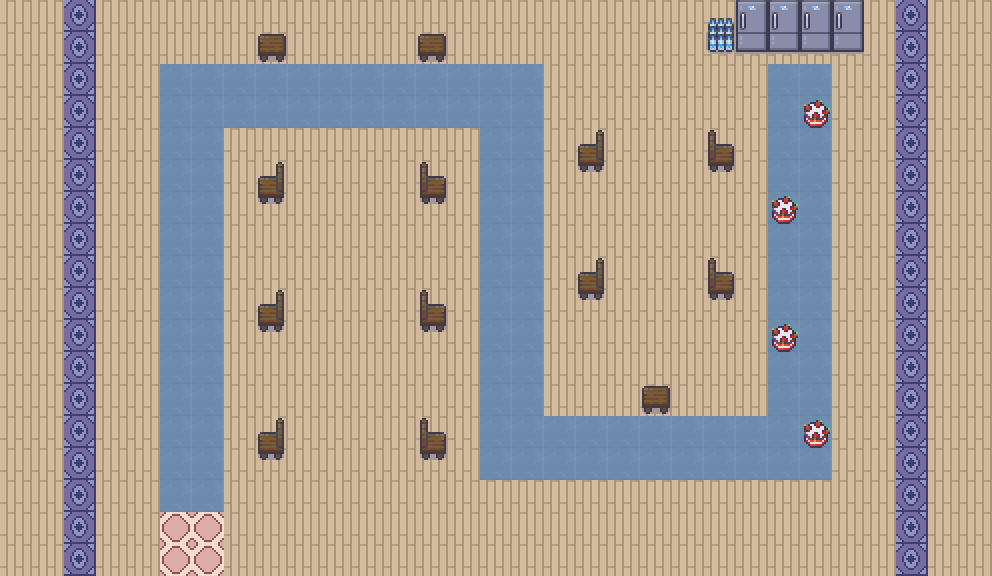
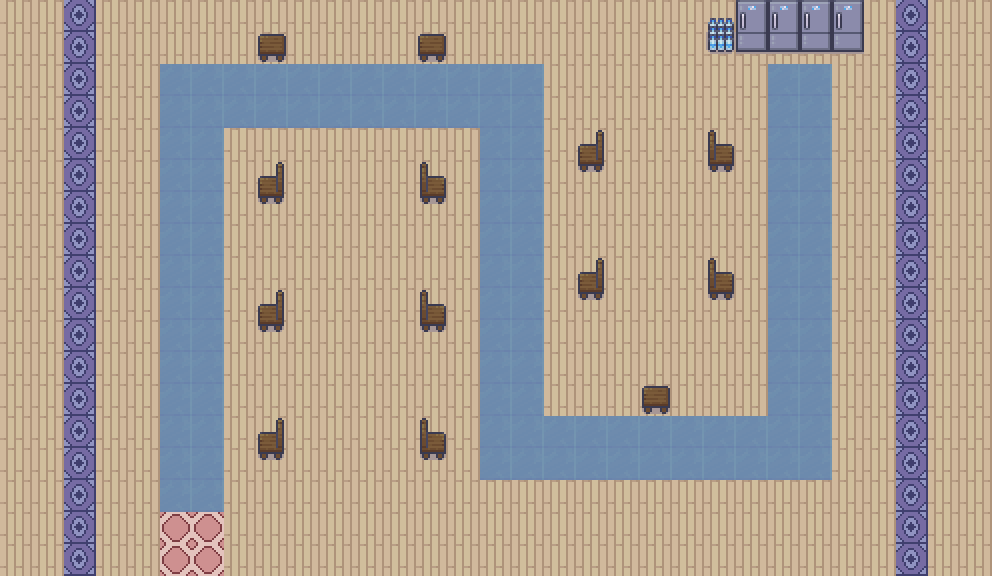
updated map to work in play.js updated map to get rid of placeholder enemy units

diff --git a/src/js/stage/play.js b/src/js/stage/play.js
@@ -15,22 +15,28 @@ class PlayScreen extends Stage {
 
         var panel = new SideMenuContainer(game.viewport.width * 5/6, 0, game.viewport.width / 6, game.viewport.height);
         var gameHud = new GameHUD(0, 0, game.viewport.width * 5 / 6, game.viewport.height);
+
+        var game_map = new me.Sprite(450,350, 
+            {   
+                image: me.loader.getImage("map"), 
+                spritewidth: 64, 
+                spriteheight: 64
+            });
+
+        me.game.world.addChild(game_map);
+
         
         game.world.addChild(panel);
         game.world.addChild(gameHud);
 
         // temp code that serves as a map placeholder
-        game.world.addChild(new BitmapText(game.viewport.width / 2.5, game.viewport.height / 1.8,  {
-            font : "PressStart2P",
-            size : 2.8,
-            textBaseline : "middle",
-            textAlign : "center",
-            text : "Map Placeholder"
-        }));
-
-        // level.preload(DataManifest, ()=> {
-        //     document.getElementById('map');
-        // });
+        // game.world.addChild(new BitmapText(game.viewport.width / 2.5, game.viewport.height / 1.8,  {
+        //     font : "PressStart2P",
+        //     size : 2.8,
+        //     textBaseline : "middle",
+        //     textAlign : "center",
+        //     text : "Map Placeholder"
+        // }));
 
     }
 };

diff --git a/src/index.js b/src/index.js
@@ -22,7 +22,7 @@ import DataManifest from "./manifest.js";
 device.onReady(() => {
 
     // initialize the display canvas once the device/browser is ready
-    if (!video.init(1218, 562, { parent: "screen", scale: "auto" })) {
+    if (!video.init(1280, 720, { parent: "screen", scale: "auto" })) {
         alert("Your browser does not support HTML5 canvas.");
         return;
     }
@@ -49,8 +49,9 @@ device.onReady(() => {
 
         // add our player entity in the entity pool
         //pool.register("mainPlayer", PlayerEntity);
-
         // Start the game.
         state.change(state.MENU);
     });
 });
+
+

diff --git a/index.html b/index.html
@@ -13,6 +13,6 @@
       <div id="screen"></div>
       <script type="module" src="src/index.js"></script>
       <!-- TEMP - verifies that image path is good-->
-      <img src = "./src/data/map/map.png">
+      <!-- <img src = "./data/map/map.png"> !-->
   </body>
 </html>
